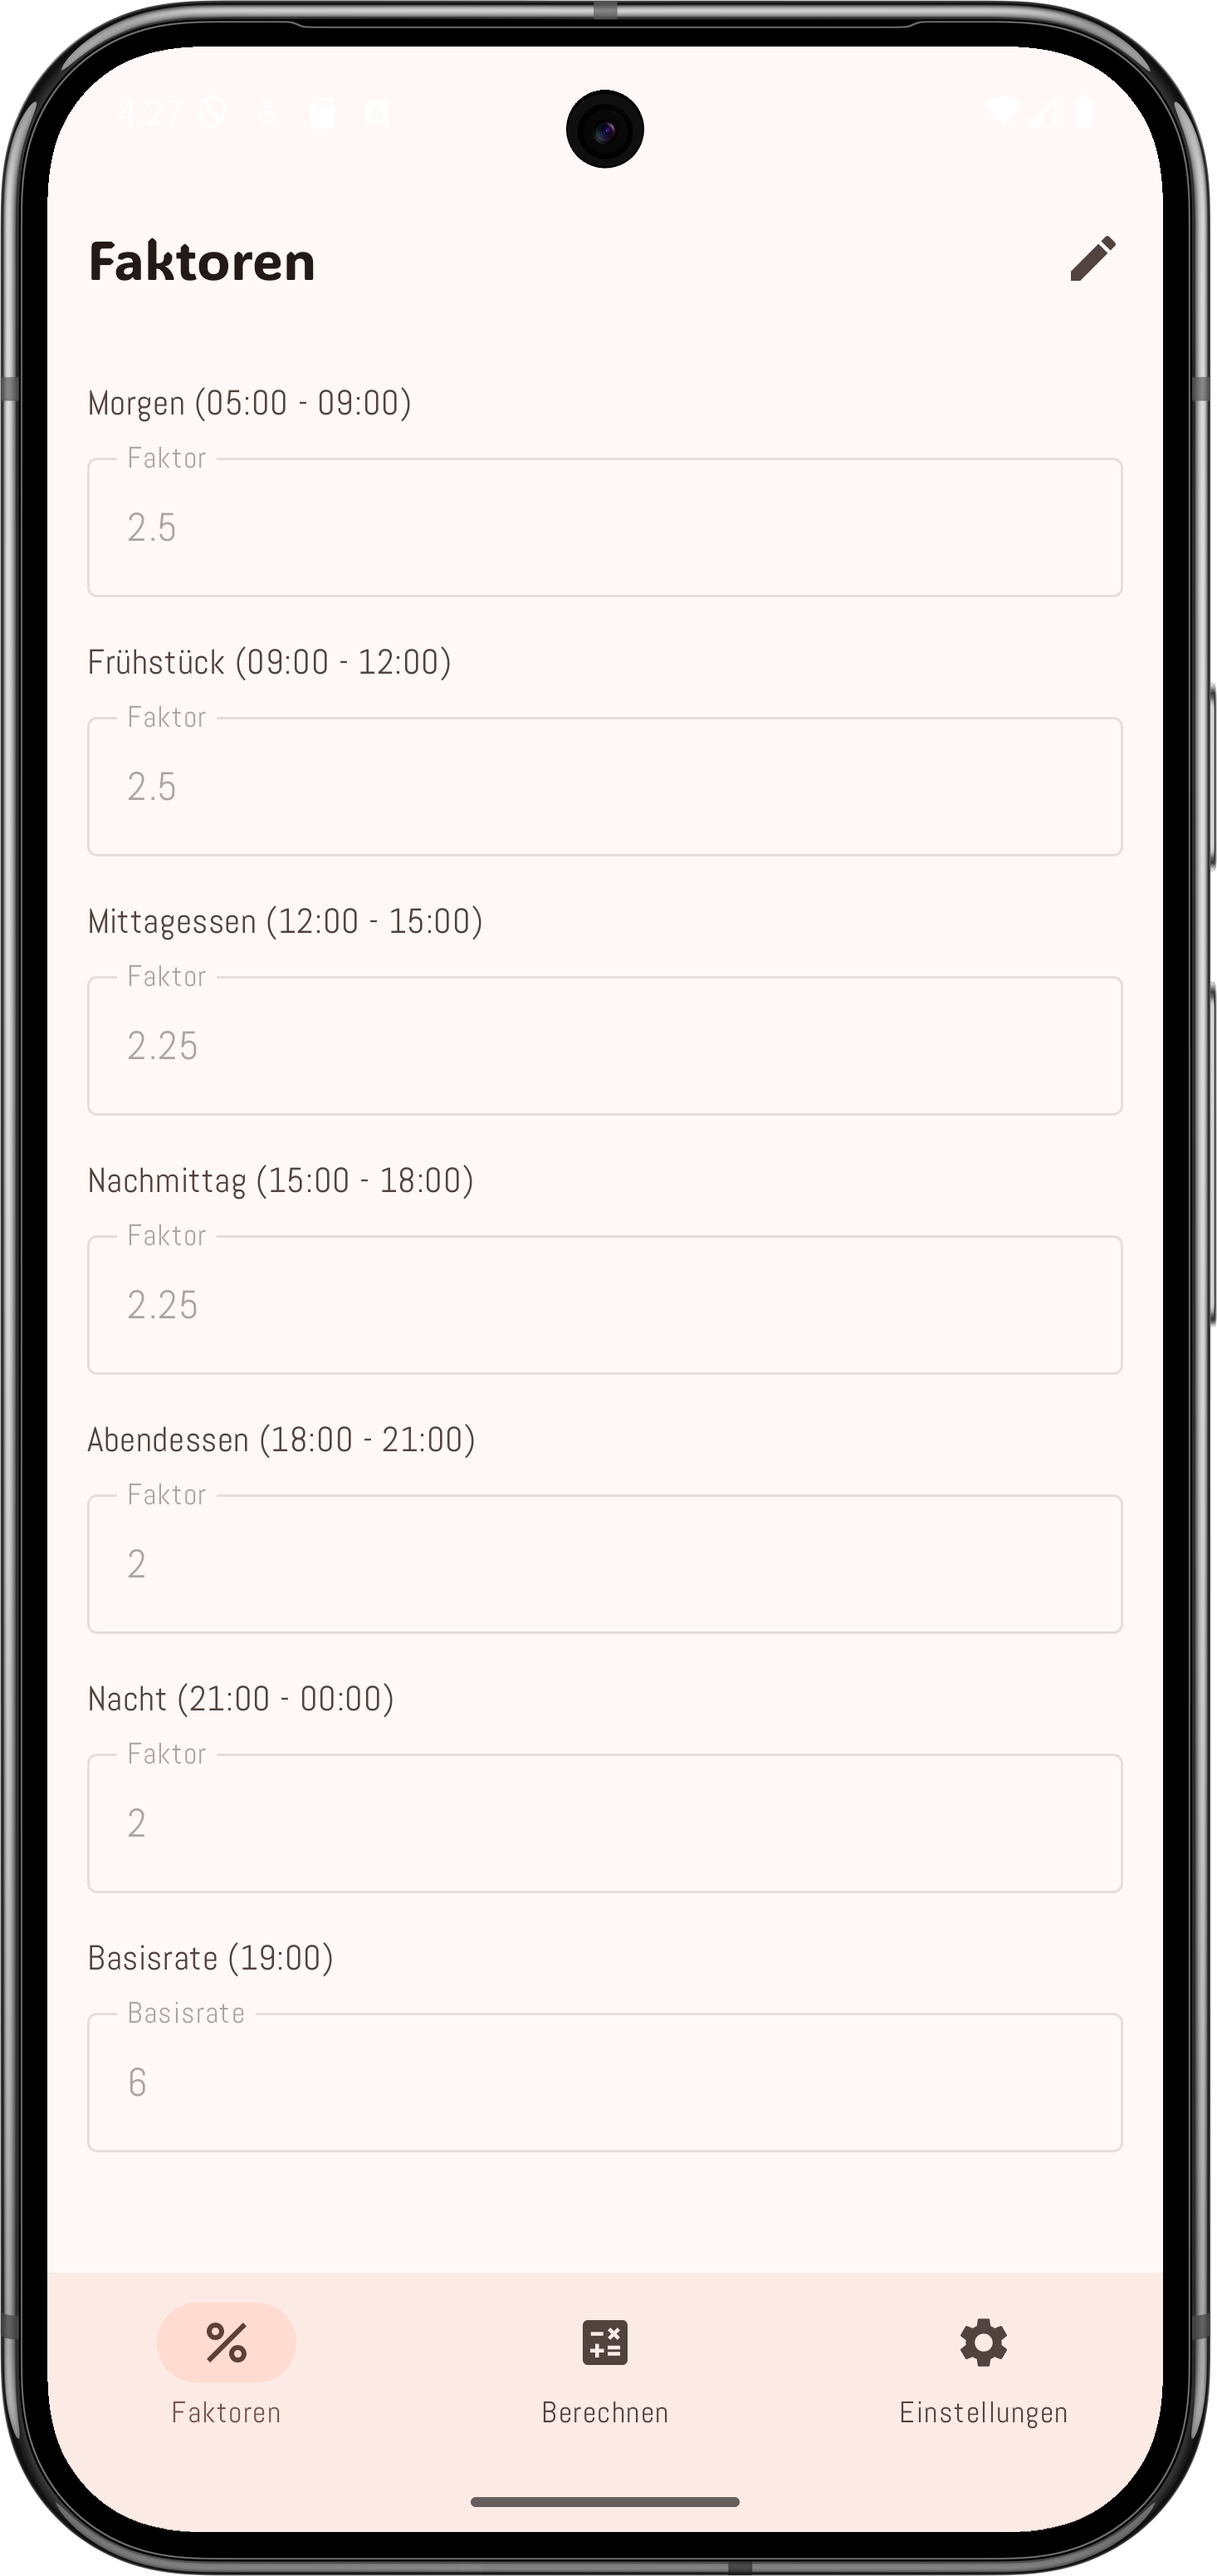
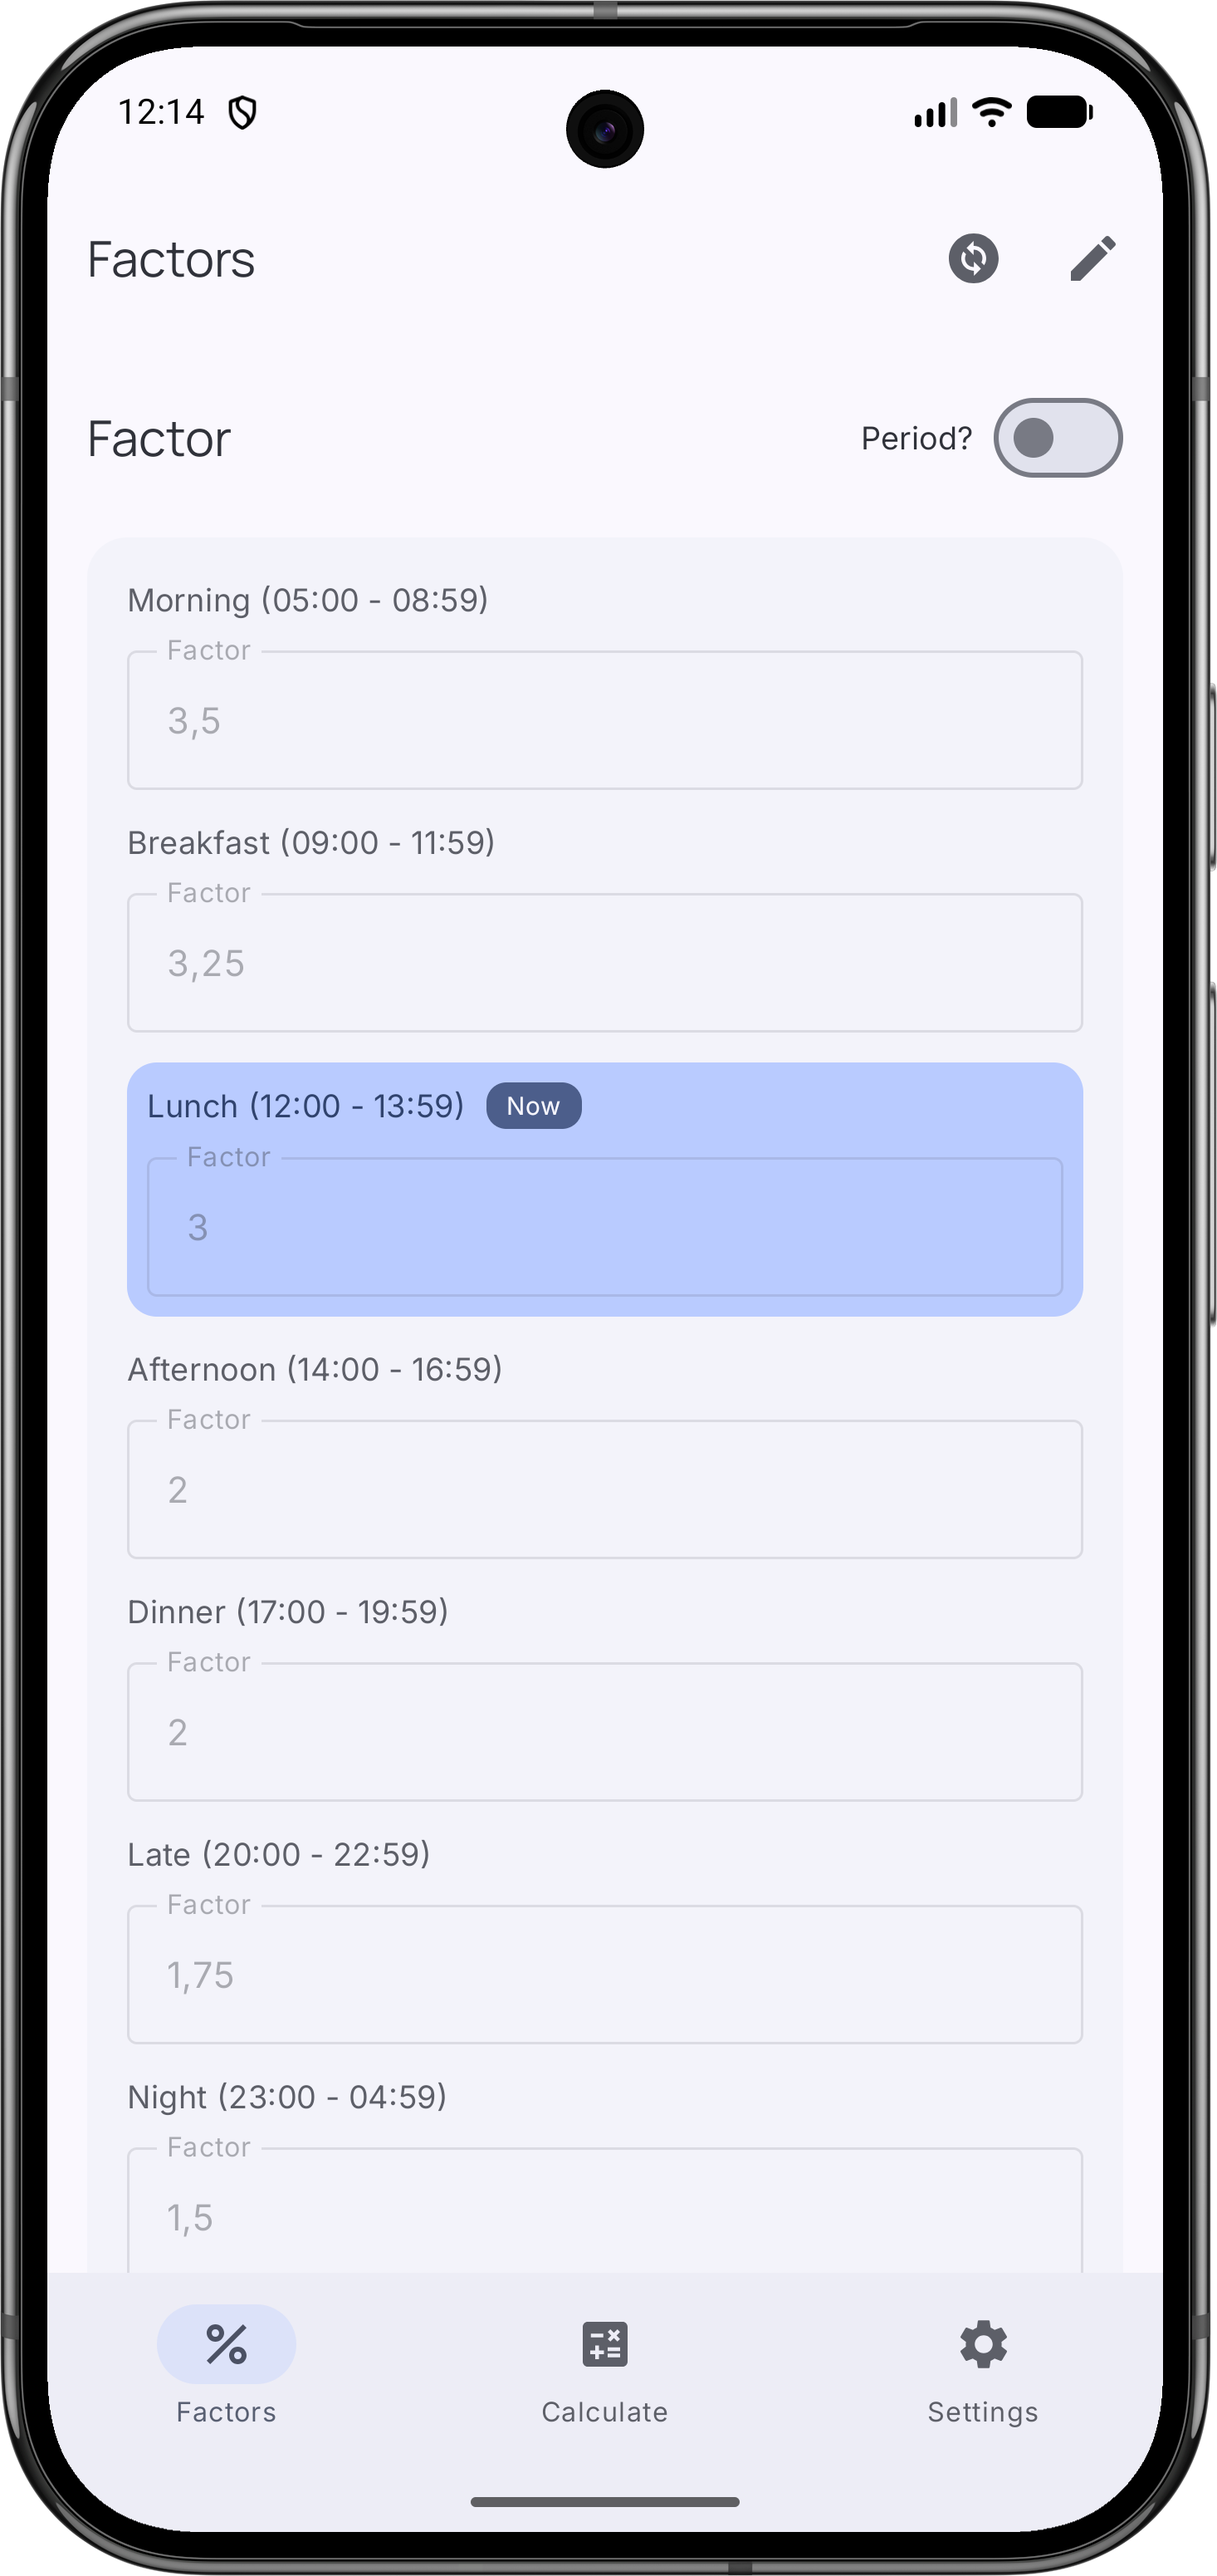
docs: remove roadmap section from readme
Remove the roadmap section from the README as the project
is no longer actively maintained and the roadmap items are
outdated. This simplifies the documentation to focus on
current functionality and status.

diff --git a/README.md b/README.md
@@ -15,7 +15,6 @@ Android app built with Jetpack Compose for managing diabetes-relevant factors, t
 - [Requirements](#requirements)
 - [Installation & Getting Started](#installation--getting-started)
 - [Screenshot](#screenshot)
-- [Roadmap](#roadmap)
 - [License](#license)
 
 ## Current Status
@@ -238,13 +237,6 @@ Set-Location "<repo-path>"
 ## Screenshot
 
 <img src="docs/app.png" width="400" alt="App Screenshot">
-
-## Roadmap
-
-- Additional medical rules and plausibility checks for calculations
-- Optional: export/import of profiles
-- Optional: cloud sync / backup
-- UI polish for the Calculate and Settings screens
 
 ## License
 
